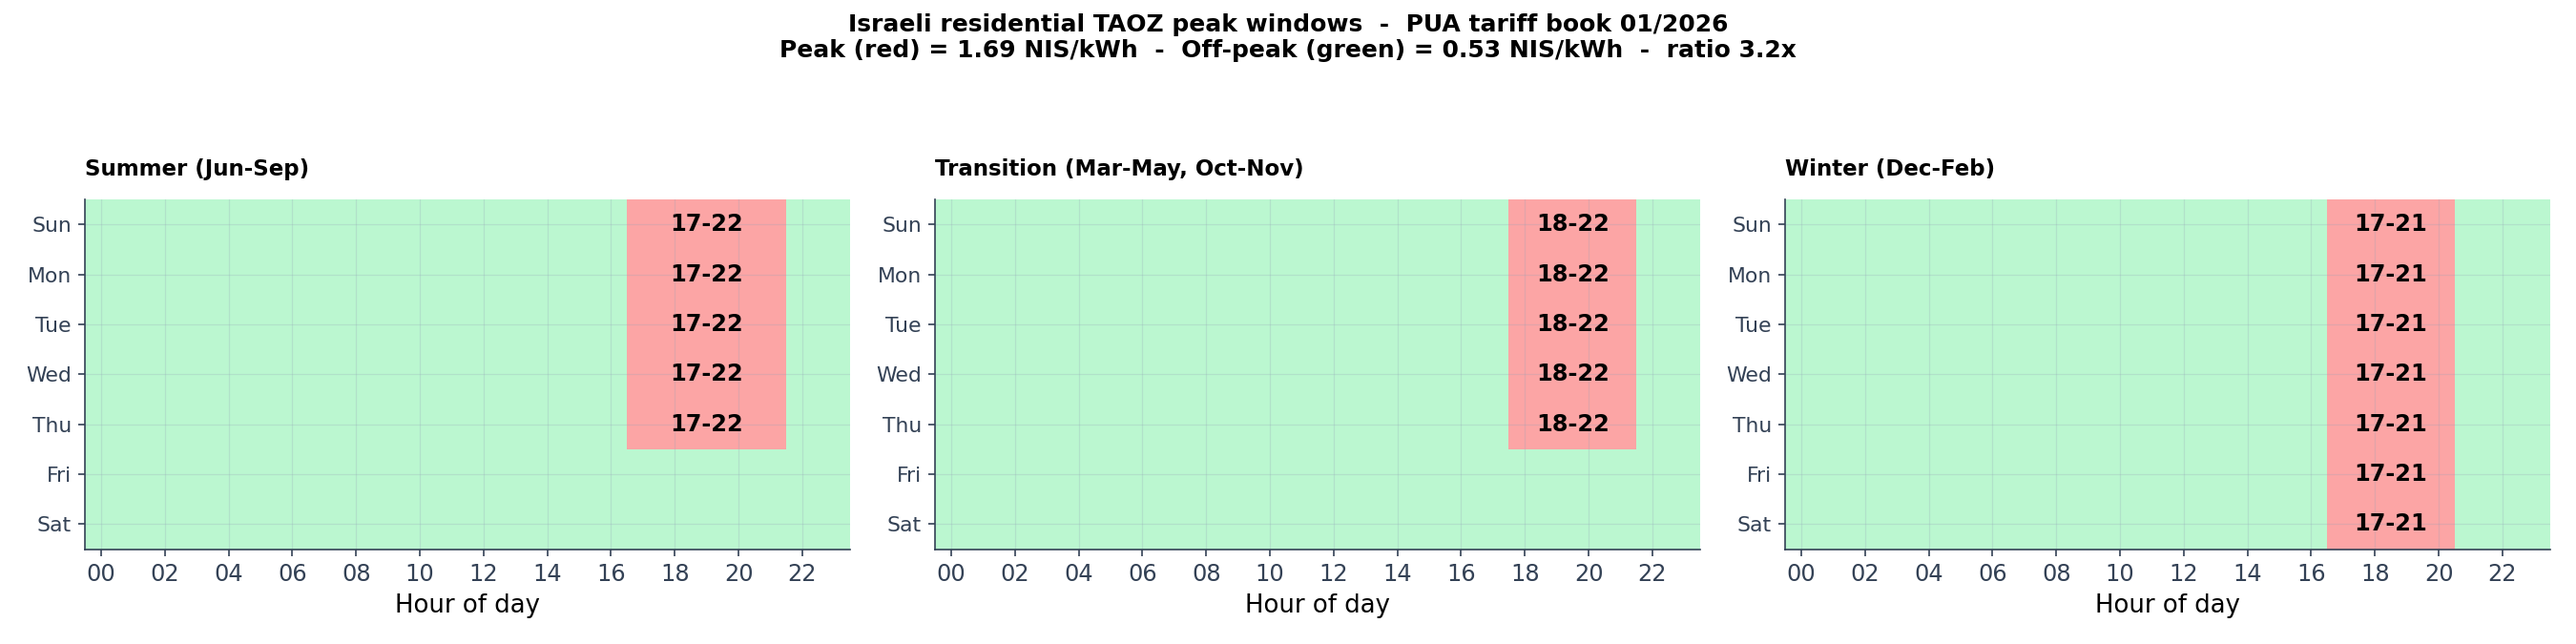
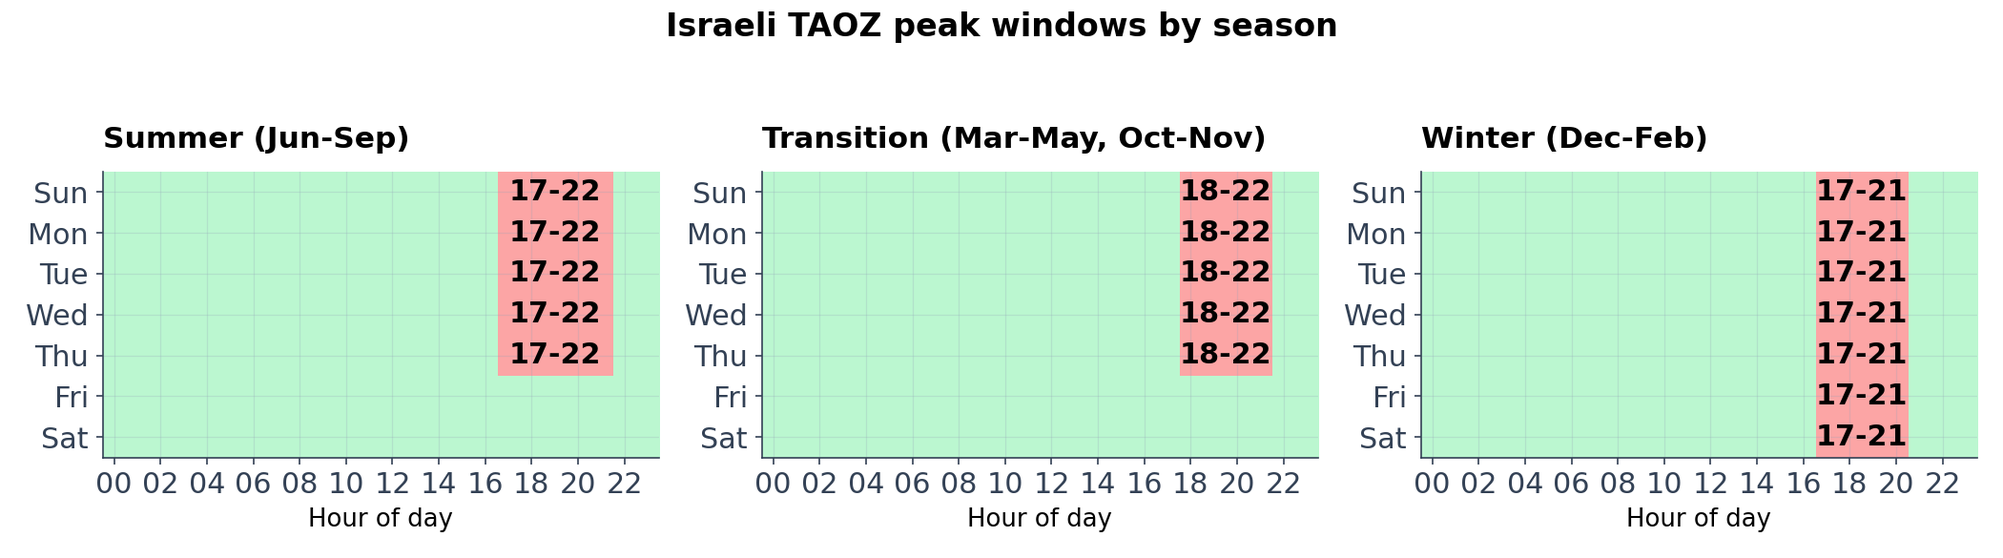
git add -A git commit -m "Figure polish: short one-line titles as convention (captions carry detail), resized taoz and uk-pricing canvases for legible fonts, fixed colliding panel titles in retail comparison, legend inside plot for UK tariffs" git push origin

diff --git a/src/plot_w15_intro_diagrams.py b/src/plot_w15_intro_diagrams.py
@@ -109,7 +109,7 @@ def _arr(ax, p0, p1, color, style="-", lw=2.6, rad=0.0):
 
 
 def fig_actors() -> None:
-    """Three-tier layout: owner / market layer (supplier + aggregator) / grid."""
+    """Three-tier layout; electricity arrows pass BEHIND the market layer."""
     fig, ax = plt.subplots(figsize=(11.5, 8.4))
     ax.set_xlim(0, 12); ax.set_ylim(0, 10.3); ax.axis("off")
 
@@ -127,6 +127,9 @@ def fig_actors() -> None:
                                      linewidth=lw, linestyle=style, color=color, zorder=z))
 
     vbox(3.6, 8.2, 4.8, 1.75, "EV owner", "provides the battery,\nplugs in at home", PALETTE["uk"])
+    # electricity BEHIND the market layer (z below the frame)
+    varr((4.3, 8.1), (4.3, 2.4), PALETTE["uk"], lw=3.4, z=0.5)
+    varr((7.6, 2.4), (7.6, 8.1), "#0a8f66", lw=3.4, z=0.5)
     ax.add_patch(FancyBboxPatch((0.75, 3.7), 10.5, 3.1, boxstyle="round,pad=0.08,rounding_size=0.18",
                                 facecolor="#f1f5f9", edgecolor="#94a3b8", linewidth=1.6, zorder=1))
     vbox(1.25, 4.75, 3.8, 1.75, "Electricity supplier", "tariff, billing,\nsettlement of export", PALETTE["neutral"], fs=13)
@@ -135,32 +138,40 @@ def fig_actors() -> None:
             ha="center", fontsize=11, style="italic", color="#475569", zorder=4)
     vbox(3.6, 0.5, 4.8, 1.75, "Grid and system\noperator", "wires, balancing,\navoided peak cost", PALETTE["cost"])
 
+    # electricity labels on the visible bottom segments
+    ax.text(4.1, 2.82, "discharge at peak", ha="right", fontsize=10.5,
+            fontweight="bold", color=PALETTE["uk"])
+    ax.text(7.8, 2.82, "charge off-peak", ha="left", fontsize=10.5,
+            fontweight="bold", color="#0a8f66")
+
     # aggregator -> supplier: EMS services; supplier -> aggregator: fees
-    varr((6.85, 5.62), (5.15, 5.62), "#475569", style="--", lw=1.8, z=1, ms=16)
-    ax.text(6.0, 5.8, "EMS services", ha="center", fontsize=9.5, color="#475569", zorder=1)
-    varr((5.15, 5.05), (6.85, 5.05), "#475569", style="--", lw=1.8, z=1, ms=16)
-    ax.text(6.0, 4.82, "fees", ha="center", fontsize=9.5, color="#475569", zorder=1)
+    varr((6.85, 5.62), (5.15, 5.62), "#475569", style="--", lw=1.8, z=2, ms=16)
+    ax.text(6.0, 5.8, "EMS services", ha="center", fontsize=9.5, color="#475569", zorder=4)
+    varr((5.15, 5.05), (6.85, 5.05), "#475569", style="--", lw=1.8, z=2, ms=16)
+    ax.text(6.0, 4.82, "fees", ha="center", fontsize=9.5, color="#475569", zorder=4)
 
-    varr((4.15, 8.1), (4.15, 6.9), PALETTE["amber"], style="--")
-    varr((4.75, 6.9), (4.75, 8.1), PALETTE["amber"], style="--")
-    ax.text(3.95, 7.62, "pays the bill", ha="right", fontsize=10.5, fontweight="bold", color=PALETTE["amber"])
-    ax.text(3.95, 7.08, "export credit,\nrevenue share", ha="right", fontsize=10.5,
+    # owner <-> market layer money in the centre gap
+    varr((5.1, 8.1), (5.1, 6.9), PALETTE["amber"], style="--")
+    varr((6.9, 6.9), (6.9, 8.1), PALETTE["amber"], style="--")
+    ax.text(6.0, 7.7, "pays the bill", ha="center", fontsize=9.5,
+            fontweight="bold", color=PALETTE["amber"])
+    ax.text(6.0, 7.3, "export credit,", ha="center", fontsize=9.5,
+            fontweight="bold", color=PALETTE["amber"])
+    ax.text(6.0, 7.08, "revenue share", ha="center", fontsize=9.5,
             fontweight="bold", color=PALETTE["amber"])
 
-    varr((7.9, 6.9), (7.9, 8.1), PALETTE["israel"])
-    ax.text(8.1, 7.5, "dispatch commands", ha="left", fontsize=11, fontweight="bold", color=PALETTE["israel"])
+    # dispatch commands (control)
+    varr((8.25, 6.9), (8.25, 8.1), PALETTE["israel"])
+    ax.text(8.45, 7.45, "dispatch\ncommands", ha="left", fontsize=10.5,
+            fontweight="bold", color=PALETTE["israel"])
 
-    varr((4.4, 3.6), (4.4, 2.35), PALETTE["amber"], style="--")
-    ax.text(4.2, 3.0, "network charges,\nwholesale purchases", ha="right", fontsize=10.5,
-            fontweight="bold", color=PALETTE["amber"])
-    varr((7.6, 2.35), (7.6, 3.6), PALETTE["amber"], style="--")
-    ax.text(7.8, 3.0, "payment for flexibility\nand balancing services", ha="left", fontsize=10.5,
-            fontweight="bold", color=PALETTE["amber"])
-
-    varr((5.62, 8.1), (5.62, 2.4), PALETTE["uk"], lw=3.4, z=2)
-    varr((6.38, 2.4), (6.38, 8.1), "#0a8f66", lw=3.4, z=2)
-    ax.text(5.36, 7.75, "discharge\nat peak", ha="right", fontsize=10.5, fontweight="bold", color=PALETTE["uk"])
-    ax.text(6.56, 7.75, "charge\noff-peak", ha="left", fontsize=10.5, fontweight="bold", color="#0a8f66")
+    # market layer <-> grid money in the centre gap
+    varr((5.1, 3.6), (5.1, 2.35), PALETTE["amber"], style="--")
+    varr((6.9, 2.35), (6.9, 3.6), PALETTE["amber"], style="--")
+    ax.text(6.0, 3.3, "network charges,", ha="center", fontsize=9, fontweight="bold", color=PALETTE["amber"])
+    ax.text(6.0, 3.1, "wholesale purchases", ha="center", fontsize=9, fontweight="bold", color=PALETTE["amber"])
+    ax.text(6.0, 2.72, "payment for", ha="center", fontsize=9, fontweight="bold", color=PALETTE["amber"])
+    ax.text(6.0, 2.52, "flexibility services", ha="center", fontsize=9, fontweight="bold", color=PALETTE["amber"])
 
     fig.text(0.5, 0.02, "Dashed arrows carry money, solid arrows carry electricity and control.  "
              "No money passes between the owner and the grid directly.",

diff --git a/src/plot_w12t_sensitivity_split.py b/src/plot_w12t_sensitivity_split.py
@@ -35,7 +35,7 @@ def panel_capex(ax):
     ax.set_title("(1) Bidirectional charger CAPEX, 2026 vs 2028",
                  fontsize=14.0, fontweight="bold")
     ax.set_ylim(0, 12)
-    ax.legend(fontsize=10, loc="upper right")
+    ax.legend(fontsize=11.5, loc="upper right")
     ax.grid(True, axis="y", alpha=0.3)
 
 
@@ -56,7 +56,7 @@ def panel_uk_rate(ax):
     ax.set_ylabel("Payback (years)", fontsize=11.5)
     ax.set_title("(2) UK Power Pack rate sweep (net of Go recharge)",
                  fontsize=14.0, fontweight="bold")
-    ax.legend(fontsize=10, loc="upper right")
+    ax.legend(fontsize=11.5, loc="upper right")
     ax.grid(True, alpha=0.3)
 
 
@@ -75,8 +75,8 @@ def panel_taoz(ax):
     ax.set_ylabel("Annual GROSS V2G revenue (NIS/EV/yr)", fontsize=11.5)
     ax.set_title("(3) Israel TAOZ peak/off-peak spread\n"
                  "annual gross (subtract ~1,940 NIS/yr CAPEX amortisation for net)",
-                 fontsize=13.0, fontweight="bold")
-    ax.legend(fontsize=10, loc="upper left")
+                 fontsize=14.0, fontweight="bold")
+    ax.legend(fontsize=11.5, loc="upper left")
     ax.grid(True, axis="y", alpha=0.3)
 
 
@@ -96,7 +96,7 @@ def panel_plugin(ax):
     ax.set_ylabel("Daily Charger V2G kWh/yr", fontsize=11.5)
     ax.set_title("(4) Plug-in probability robustness (3-seed avg, 90 % cap)",
                  fontsize=14.0, fontweight="bold")
-    ax.legend(fontsize=10, loc="lower right")
+    ax.legend(fontsize=11.5, loc="lower right")
     ax.grid(True, alpha=0.3)
 
 
@@ -117,7 +117,7 @@ def panel_return_home(ax):
     ax.set_ylabel("Daily Charger V2G kWh/yr", fontsize=11.5)
     ax.set_title("(6) Return-home hour sensitivity (3-seed avg, 90 % cap)",
                  fontsize=14.0, fontweight="bold")
-    ax.legend(fontsize=10, loc="lower left")
+    ax.legend(fontsize=11.5, loc="lower left")
     ax.grid(True, alpha=0.3)
     ax.set_ylim(3500, 6500)
 
@@ -147,9 +147,9 @@ def panel_drive_days(ax):
     ax.set_ylabel("Annual V2G kWh / car", fontsize=11.5)
     ax.set_title("(7) Drive-days sensitivity (3-seed avg, 90 % cap)\n"
                  "matched 87 % plug-in; curves converge at 0 d/wk",
-                 fontsize=13.0, fontweight="bold")
+                 fontsize=14.0, fontweight="bold")
     ax.set_xticks(drive_days)
-    ax.legend(fontsize=10, loc="lower left")
+    ax.legend(fontsize=11.5, loc="lower left")
     ax.grid(True, alpha=0.3)
     ax.set_ylim(4300, 7100)
 
@@ -190,8 +190,8 @@ def panel_grid(ax):
                   fontsize=11.5)
     ax.set_title("(5) Feeder worst-case envelope, all participants discharging\n"
                  "at once (54 HH x 1 EV, 517 kVA; simulated year: zero denials)",
-                 fontsize=13.0, fontweight="bold")
-    ax.legend(fontsize=9.5, loc="upper left")
+                 fontsize=14.0, fontweight="bold")
+    ax.legend(fontsize=11.0, loc="upper left")
     ax.grid(True, alpha=0.3)
     ax.set_ylim(-260, 620)
 

diff --git a/src/plot_uk_pricing.py b/src/plot_uk_pricing.py
@@ -26,23 +26,23 @@ def main() -> None:
     octgo = np.array([octopus_go_rate_at_hour(h) for h in hours]) * 100
     export = np.array([octopus_powerloop_export_at_hour(h) for h in hours]) * 100
 
-    fig, ax = plt.subplots(figsize=(14, 6.8))
+    fig, ax = plt.subplots(figsize=(12, 6.2))
 
     # V0 - flat Ofgem
     ax.plot(hours, ofgem, color="#9ca3af", linewidth=3,
-            label=f"V0: Ofgem default cap ({OFGEM_CAP_RATE_GBP*100:.1f} p/kWh, flat)",
+            label=f"V0: Ofgem cap ({OFGEM_CAP_RATE_GBP*100:.1f}p flat)",
             drawstyle="steps-post")
 
     # V1G - Octopus Go
     ax.plot(hours, octgo, color="#1f77b4", linewidth=3,
-            label=f"V1G: Octopus Go ({OCTOPUS_GO_OFFPEAK_GBP*100:.1f}p off-peak  /  {OCTOPUS_GO_PEAK_GBP*100:.1f}p peak)",
+            label=f"V1G: Octopus Go ({OCTOPUS_GO_OFFPEAK_GBP*100:.1f}p off-peak, {OCTOPUS_GO_PEAK_GBP*100:.1f}p peak)",
             drawstyle="steps-post")
 
     # V2G export overlay
     export_mask = export > 0
     ax.fill_between(np.arange(25)[:24], 0, export, where=export_mask, step="post",
                     color="#10b981", alpha=0.35,
-                    label=f"V2G: Powerloop export ({POWERLOOP_EXPORT_GBP*100:.1f} p/kWh paid TO driver, 16:00 to 19:00)")
+                    label=f"V2G: Powerloop export ({POWERLOOP_EXPORT_GBP*100:.1f}p to driver, 16:00-19:00)")
     ax.plot(hours, export, color="#10b981", linewidth=2.5,
             drawstyle="steps-post")
 
@@ -54,15 +54,14 @@ def main() -> None:
     ax.text(17.5, 25, "Powerloop\nexport window",
             ha="center", fontsize=11.5, color="#065f46", style="italic")
 
-    ax.set_xlabel("Hour of day", fontsize=12)
-    ax.set_ylabel("Rate (pence per kWh)", fontsize=12)
+    ax.set_xlabel("Hour of day", fontsize=13)
+    ax.set_ylabel("Rate (pence per kWh)", fontsize=13)
     ax.set_xlim(0, 23)
     ax.set_ylim(0, 35)
     ax.set_xticks(range(0, 24, 2))
     ax.set_xticklabels([f"{h:02d}:00" for h in range(0, 24, 2)])
-    ax.set_title("UK three-tariff structure for the V2G model  (24-hour view)",
-                 fontsize=14, fontweight="bold")
-    ax.legend(loc="upper center", bbox_to_anchor=(0.5, -0.12), ncol=3, fontsize=11.5, framealpha=0.95)
+    ax.set_title("UK tariffs over 24 hours", fontsize=16, fontweight="bold")
+    ax.legend(loc="center", bbox_to_anchor=(0.45, 0.42), fontsize=12.5, framealpha=0.95)
     ax.grid(True, alpha=0.3)
 
     fig.tight_layout()

diff --git a/src/plot_w9_deck_figures.py b/src/plot_w9_deck_figures.py
@@ -51,7 +51,7 @@ def fig_taoz_heatmap() -> None:
         ("Winter (Dec-Feb)",       1, "winter"),
     ]
     day_names = ["Sun", "Mon", "Tue", "Wed", "Thu", "Fri", "Sat"]
-    fig, axes = plt.subplots(1, 3, figsize=(18, 4.5))
+    fig, axes = plt.subplots(1, 3, figsize=(14, 3.9))
 
     cmap = ListedColormap(["#bbf7d0", "#fca5a5"])   # off-peak green, peak red
 
@@ -64,24 +64,20 @@ def fig_taoz_heatmap() -> None:
 
         ax.imshow(grid, aspect="auto", cmap=cmap, vmin=0, vmax=1)
         ax.set_yticks(range(7))
-        ax.set_yticklabels(day_names, fontsize=10.5)
+        ax.set_yticklabels(day_names, fontsize=14.5)
         ax.set_xticks(range(0, 24, 2))
-        ax.set_xticklabels([f"{h:02d}" for h in range(0, 24, 2)], fontsize=11.5)
+        ax.set_xticklabels([f"{h:02d}" for h in range(0, 24, 2)], fontsize=14.5)
         ax.set_xlabel("Hour of day")
-        ax.set_title(title, fontsize=11, fontweight="bold")
+        ax.set_title(title, fontsize=15, fontweight="bold")
         # Annotate peak windows
         for dow in range(7):
             in_peak = grid[dow, :].nonzero()[0]
             if len(in_peak):
                 start, end = in_peak[0], in_peak[-1] + 1
                 ax.text((start + end) / 2 - 0.5, dow, f"{start:02d}-{end:02d}",
-                        ha="center", va="center", fontsize=11.5, color="black", fontweight="bold")
+                        ha="center", va="center", fontsize=14.5, color="black", fontweight="bold")
 
-    fig.suptitle(
-        "Israeli residential TAOZ peak windows  -  PUA tariff book 01/2026\n"
-        f"Peak (red) = {PRICE_PEAK:.2f} NIS/kWh  -  Off-peak (green) = {PRICE_OFFPEAK:.2f} NIS/kWh  -  ratio 3.2x",
-        fontsize=12, fontweight="bold",
-    )
+    fig.suptitle("Israeli TAOZ peak windows by season", fontsize=16, fontweight="bold")
     fig.tight_layout(rect=(0, 0, 1, 0.92))
     out = OUTPUTS / "taoz_seasonal_heatmap.png"
     fig.savefig(out, dpi=150, facecolor="white")

diff --git a/src/plot_w11c_pnl_active.py b/src/plot_w11c_pnl_active.py
@@ -168,12 +168,11 @@ def draw(country: str, currency: str, premium: float,
     max_bat = max(bat_nmc + bat_lfp)
     max_rev = max(rev_nmc + rev_lfp)
     ax.set_ylim(-max_bat * 1.15, max_rev * 1.38)
-    ax.set_title("Annual operating P&L (active typologies)\n"
-                 "V2G revenue minus battery degradation cost.",
-                 fontsize=12, fontweight="bold", loc="center")
+    ax.set_title("Annual operating P&L",
+                 fontsize=14.0, fontweight="bold", loc="center")
     # Legend BELOW the plot so it does not overlap the bars
     ax.legend(loc="upper center", bbox_to_anchor=(0.5, -0.10),
-              ncol=2, fontsize=10.5, framealpha=0.95)
+              ncol=2, fontsize=12.0, framealpha=0.95)
     ax.grid(True, axis="y", alpha=0.3)
 
     # RIGHT: payback
@@ -207,15 +206,13 @@ def draw(country: str, currency: str, premium: float,
     if country == "UK":
         sub = (f"Premium {premium:,.0f} GBP.  Power Pack net of 7 p Go recharge;\n"
                f"Sciurus alternative: {UK_SCIURUS_TOTAL_GBP:.0f} GBP/yr total (payback ~5.5 y).")
-    ax.set_title(f"V2G premium payback (years)\n{sub}",
-                 fontsize=12, fontweight="bold", loc="center")
-    ax.legend(loc="upper left", fontsize=11.5, framealpha=0.95)
+    ax.set_title("V2G premium payback (years)",
+                 fontsize=14.0, fontweight="bold", loc="center")
+    ax.legend(loc="upper left", fontsize=13.0, framealpha=0.95)
     ax.grid(True, axis="y", alpha=0.3)
     ax.set_ylim(0, max(20, max(pb_nmc_d + pb_lfp_d) * 1.20))
 
-    fig.suptitle(f"{country}: V2G driver economics  -  active typologies only "
-                 "(Public + Threshold dropped, structural zero V2G)",
-                 fontsize=12, fontweight="bold")
+    pass
     fig.tight_layout(rect=(0.01, 0.11, 0.99, 0.93))
     out = OUTDIR / f"w11c_pnl_active_{country.lower()}.png"
     fig.savefig(out, dpi=150, facecolor="white")

diff --git a/src/plot_w12m_retail_vs_retail.py b/src/plot_w12m_retail_vs_retail.py
@@ -62,10 +62,9 @@ def main() -> None:
     ax.set_xticks(x); ax.set_xticklabels(typs, fontsize=11)
     ax.set_ylabel("Annual NET V2G revenue per opted-in EV (NIS-equivalent)",
                   fontsize=11)
-    ax.set_title("Retail vs retail (apples-to-apples), NET of off-peak recharge cost\n"
-                 "Israel TAOZ 1.6895 minus 0.585 = 1.105 NIS/kWh margin.",
-                 fontsize=11.5, fontweight="bold")
-    ax.legend(loc="upper left", fontsize=11.5, framealpha=0.95)
+    ax.set_title("Retail vs retail, NET basis",
+                 fontsize=14.0, fontweight="bold")
+    ax.legend(loc="upper left", fontsize=13.0, framealpha=0.95)
     ax.grid(True, axis="y", alpha=0.3)
     ax.set_ylim(0, max(il_rev) * 1.30)
 
@@ -97,17 +96,13 @@ def main() -> None:
                     style="italic")
 
     ax.set_ylabel("Annual V2G revenue per active EV (GBP)", fontsize=11)
-    ax.set_title("Full market picture (Daily Charger)\n"
-                 "Retail + ancillary layers per country.",
-                 fontsize=11, fontweight="bold")
+    ax.set_title("Full market picture (Daily Charger)",
+                 fontsize=14.0, fontweight="bold")
     ax.set_ylim(0, max(vals_gbp) * 1.30)
     ax.grid(True, axis="y", alpha=0.3)
     ax.tick_params(axis="x", labelsize=9)
 
-    fig.suptitle(
-        "Israel vs UK V2G revenue - apples-to-apples retail comparison "
-        "and full market picture",
-        fontsize=12, fontweight="bold")
+    pass
     fig.tight_layout(rect=(0, 0, 1, 0.94))
     fig.savefig(OUT, dpi=150, facecolor="white")
     plt.close(fig)

diff --git a/src/plot_w13d_sensitivity_pairs.py b/src/plot_w13d_sensitivity_pairs.py
@@ -57,8 +57,8 @@ def panel_taoz_net(ax):
     ax.set_xlabel("TAOZ peak / off-peak ratio", fontsize=11.5)
     ax.set_ylabel("Annual NET V2G revenue (NIS / opted-in EV)", fontsize=11.5)
     ax.set_title("(3) Israel TAOZ spread (NET basis)",
-                 fontsize=11, fontweight="bold")
-    ax.legend(fontsize=11.5, loc="upper left")
+                 fontsize=14.0, fontweight="bold")
+    ax.legend(fontsize=13.0, loc="upper left")
     ax.grid(True, axis="y", alpha=0.3)
 
 
@@ -83,10 +83,10 @@ def panel_floor(ax):
     ax.set_xlabel("V2G SoC floor (%)", fontsize=11.5)
     ax.set_ylabel("Annual NET V2G revenue (NIS / opted-in EV)", fontsize=11.5)
     ax.set_title("(4) SoC floor sweep (3-seed avg, 90 % cap)",
-                 fontsize=11, fontweight="bold")
+                 fontsize=14.0, fontweight="bold")
     ax.set_xticks(floors)
     ax.set_ylim(2900, 9400)
-    ax.legend(fontsize=11.5, loc="upper right")
+    ax.legend(fontsize=13.0, loc="upper right")
     ax.grid(True, alpha=0.3)
 
 
@@ -122,8 +122,8 @@ def panel_gamma_aggregator(ax):
                   fontsize=11.5)
     ax.set_ylabel("Change in aggregator total revenue (%)", fontsize=11.5)
     ax.set_title("(8) Aggregator revenue vs behavioural inputs and gamma-2",
-                 fontsize=11, fontweight="bold")
-    ax.legend(fontsize=11.5, loc="upper left")
+                 fontsize=14.0, fontweight="bold")
+    ax.legend(fontsize=13.0, loc="upper left")
     ax.grid(True, alpha=0.3)
 
 
